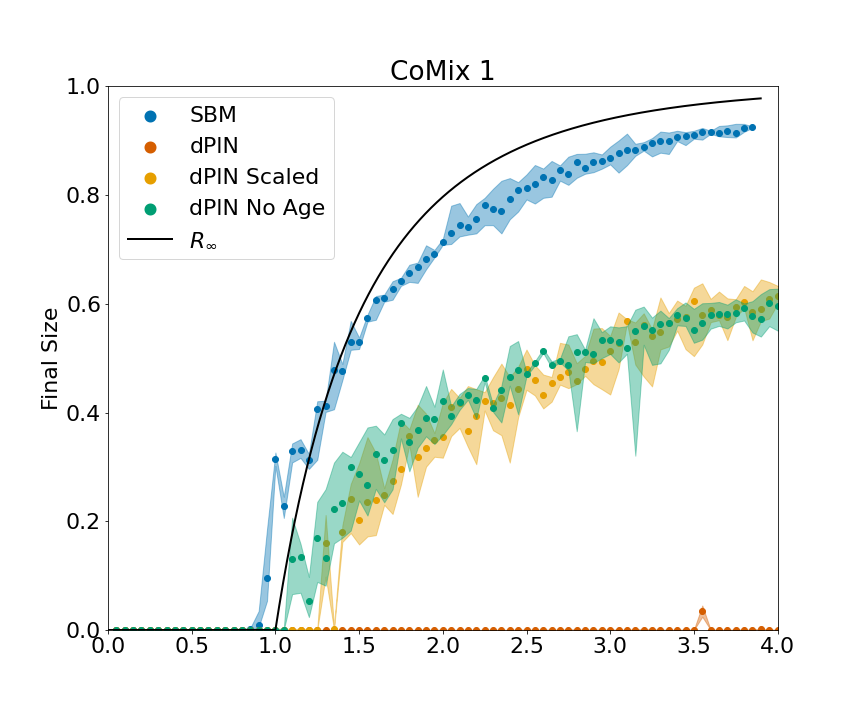
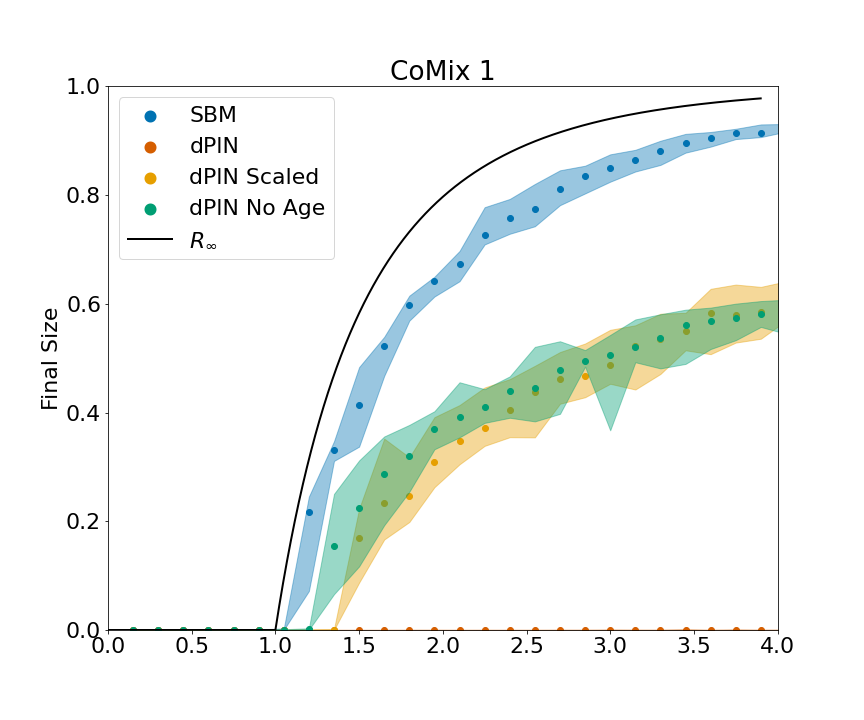
no scale 25 and no age p 15

diff --git a/_final_sellke.py b/_final_sellke.py
@@ -38,7 +38,7 @@ scales = ['none', 'none']
 # taus = [[np.arange(0.005,0.05,0.005), np.arange(0.0001,0.005,0.0001)],
 #         [np.arange(0.005,0.05,0.005), np.arange(0.00005,0.001,0.00005)],
 #         [np.arange(0.001,0.025,0.001), np.arange(0.0005,0.015,0.0005)]]
-# 23,24
+# 23,24,25
 taus = [[np.arange(0.1,0.205,0.005), np.arange(0.0005,0.01,0.0005)],
         [np.arange(0.05,0.2,0.01), np.arange(0.0005,0.01,0.0005)],
         [np.arange(0.001,0.1,0.005), np.arange(0.0025,0.05,0.0025)]]
@@ -58,6 +58,6 @@ for i, data in enumerate(datas):
         else:
             params = np.genfromtxt(f'input_data/parameters/params_{data}_{model}.csv', delimiter=',')
         result = nd_p.big_sellke_sims(partitions=partitions,contact_matrix=contact_matrix,network_params=params,n=n,dist_type=model,num_networks=1,iterations=iters, taus=taus[i][j],prop_infec=10/n, scaling=scales[j])
-        with open(f'../output_data/simulations/big/sellke/SIR/24_{data}_{model}_{scales[j]}.json','w') as f:
+        with open(f'../output_data/simulations/big/sellke/SIR/25_{data}_{model}_{scales[j]}.json','w') as f:
             json.dump(result, f)
 print('done')

diff --git a/_final_sellke_noage_p.py b/_final_sellke_noage_p.py
@@ -62,6 +62,6 @@ for i, data in enumerate(datas):
         df = pd.read_csv(f'input_data/{data}.csv')
         _, contact_matrix, params = nd_p.fit_to_data(df=df,dist_type=model, buckets=buckets, save_fig=False)
         result = nd_p.big_sellke_sims(partitions=partitions,contact_matrix=contact_matrix,network_params=params,n=n,dist_type=model,num_networks=1,iterations=iters, taus=taus[i][j],prop_infec=10/n, scaling=scales[j])
-        with open(f'../output_data/simulations/big/sellke/SIR/14_{data}_{model}_{scales[j]}_noage.json','w') as f:
+        with open(f'../output_data/simulations/big/sellke/SIR/15_{data}_{model}_{scales[j]}_noage.json','w') as f:
             json.dump(result, f)
 print('done')
